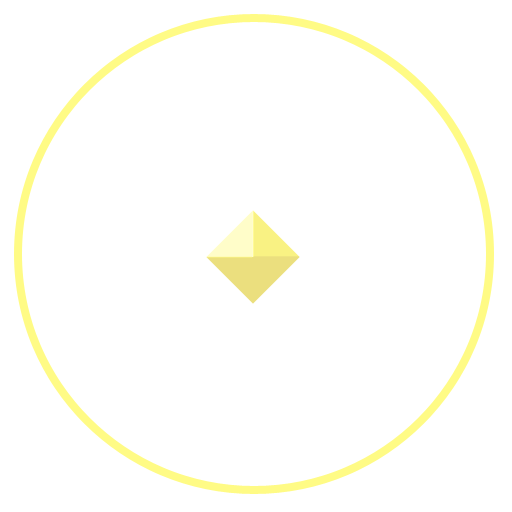
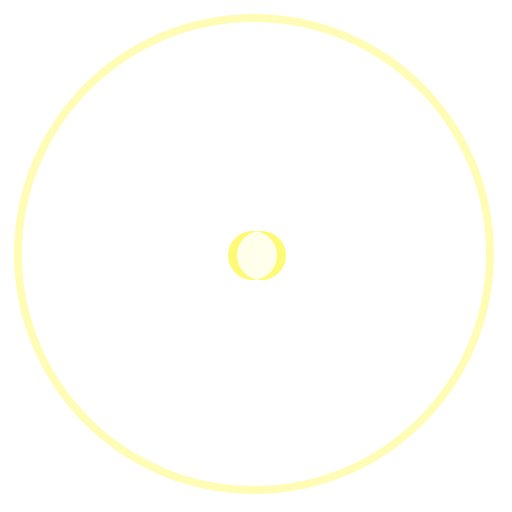
death animation

diff --git a/game.js b/game.js
@@ -121,7 +121,8 @@ PIXI.loader
     "img/star-a.png",
     "img/star-b.png",
     "img/health-container.png",
-    "img/health-bar.png"])
+    "img/health-bar.png",
+    "img/death-star.png"])
   .load(setup);
 
 function setup() {
@@ -269,6 +270,9 @@ function gameOver() {
   if (!hero.dimension) {
     hero.flipDimension();
   }
+  for (var i = 0; i < hero.deathStars.length; i++) {
+    hero.deathStars[i].sprite.visible = false;
+  }
   for (var i = 0; i < hazards.length; i++) {
     hazards[i].reset();
     hazards[i].enabled = false;
@@ -415,7 +419,12 @@ function gamePlayLoop() {
   if (hero.health <= 0) {
     hero.health = 0;
     if (hero.deadTime === 0) {
+      hero.explode();
       sounds["sound/death.wav"].play();
+    }
+    for (var i = 0; i < hero.deathStars.length; i++) {
+      hero.deathStars[i].sprite.x += hero.deathStars[i].velocity.x;
+      hero.deathStars[i].sprite.y += hero.deathStars[i].velocity.y;
     }
     hero.deadTime++;
   }
@@ -602,6 +611,7 @@ function newHero() {
     container: new PIXI.Container(),
     head: new PIXI.Sprite(PIXI.loader.resources["img/hero.png"].texture),
     face: new PIXI.Sprite(PIXI.loader.resources["img/hero-face.png"].texture),
+    deathStars: [],
     dimension: true,
     velocity: { x: 0, y: 0 },
     jumpingTime: 0,
@@ -627,9 +637,11 @@ function newHero() {
       hero.face.texture = PIXI.loader.resources["img/hero-face.png"].texture;
     }
     if (hero.health <= 0) {
-      hero.container.visible = false;
+      hero.head.visible = false;
+      hero.face.visible = false;
     } else {
-      hero.container.visible = true;
+      hero.head.visible = true;
+      hero.face.visible = true;
     }
   }
 
@@ -655,11 +667,41 @@ function newHero() {
     }
   }
 
+  hero.explode = function() {
+    for (var i = 0; i < hero.deathStars.length; i++) {
+      var deathStar = hero.deathStars[i];
+      deathStar.sprite.x = 0;
+      deathStar.sprite.y = 0;
+      deathStar.sprite.visible = true;
+      var scale = Math.random() * 1 + 1;
+      deathStar.sprite.scale.x = scale;
+      deathStar.sprite.scale.y = scale;
+      if (i > 4) {
+        deathStar.velocity.x = Math.random() * 4 - 2;
+        deathStar.velocity.y = Math.random() * 4 - 2;
+      }
+    }
+  }
+
   hero.container.anchor = { x: .5, y: .5 };
   hero.head.anchor = { x: .5, y: .5 };
   hero.face.anchor = { x: .5, y: .5 };
   hero.container.addChild(hero.head);
   hero.container.addChild(hero.face);
+
+  for (var i = 0; i < 10; i++) {
+    var deathStar = { 
+      velocity: { x: 0, y: 0 }, 
+      sprite: new PIXI.Sprite(PIXI.loader.resources["img/death-star.png"].texture) 
+    };
+    deathStar.sprite.visible = false;
+    hero.container.addChild(deathStar.sprite);
+    hero.deathStars.push(deathStar);
+  }
+  hero.deathStars[0].velocity = { x: .5, y: .5 };
+  hero.deathStars[1].velocity = { x: -.5, y: .5 };
+  hero.deathStars[2].velocity = { x: .5, y: -.5 };
+  hero.deathStars[3].velocity = { x: -.5, y: -.5 };
 
   return hero;
 }
